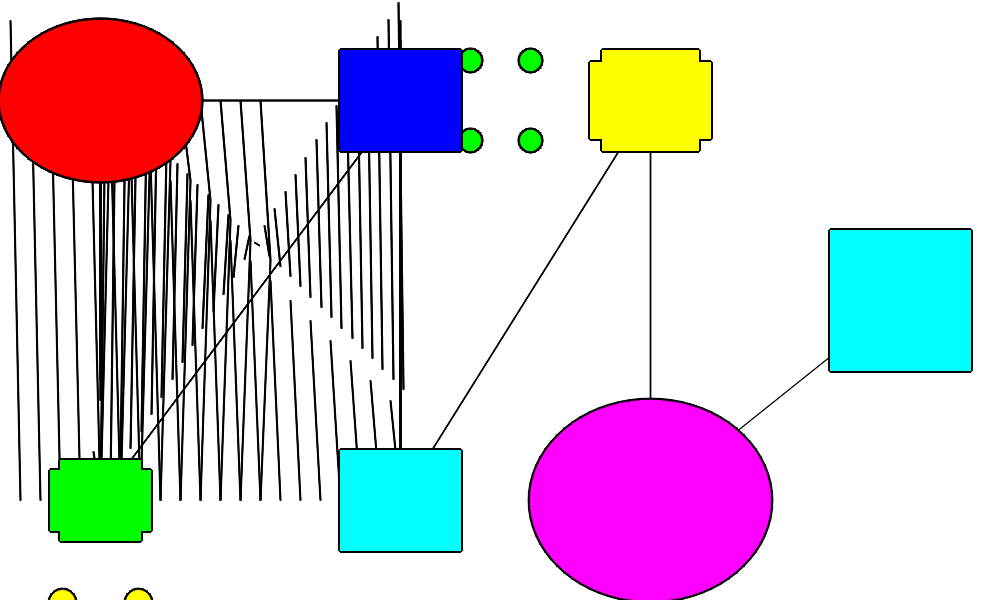
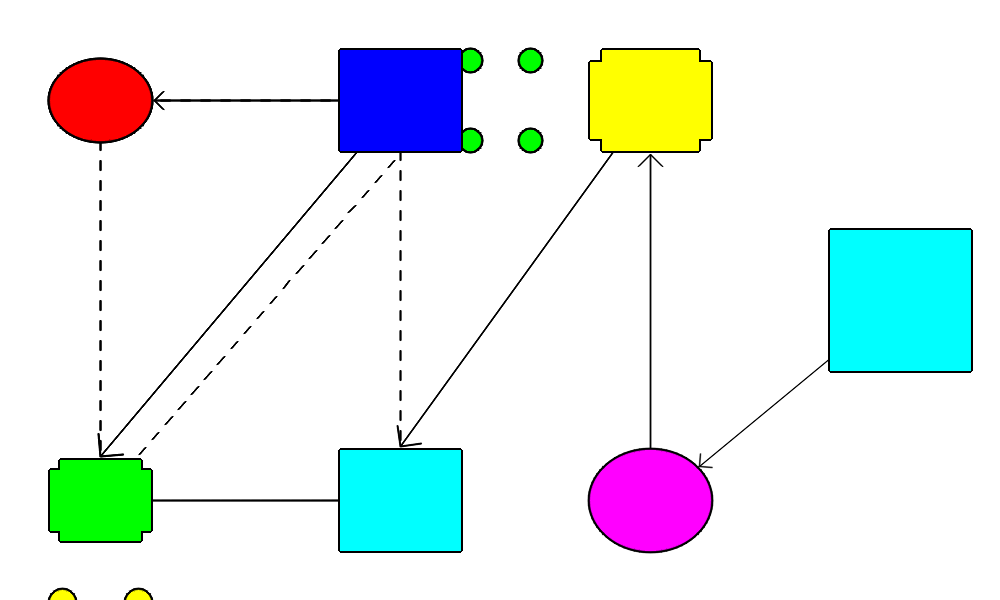
FIX: arrow bugs

diff --git a/2025_03_12_DeepSeek_LLM/draw_diagram/draw_diagram.py b/2025_03_12_DeepSeek_LLM/draw_diagram/draw_diagram.py
@@ -6,6 +6,7 @@ import math
 WIDTH = 1000
 HEIGHT = 600
 DASH_INTERVAL = 20  # interval for dashed arrow
+ARROW_MARGIN = 4
 
 canvas = np.ones((HEIGHT, WIDTH, 3), dtype=np.uint8) * 255
 diagram_dict = {}
@@ -70,7 +71,7 @@ def draw_round_rectangle(x, y, width, height, color, thickness):
 # Last Update Date : 2025.03.17
 # - circle 그릴 때 anti-aliasing 누락 수정 (lineType=cv2.LINE_AA)
 # - rectangle 그릴 때 pt1, pt2 의 좌표를 int 자료형이 되도록 수정
-# - 기타 버그 수정 (도형 그리기 순서 등)
+# - 기타 버그 수정 (도형 그리기 순서, ellipse size 등)
 
 # Arguments:
 # - x      (int)   : 도형의 x 좌표
@@ -107,7 +108,7 @@ def generate_node(x, y, width, height, shape, color):
         elif 'circle' in shape:
             cv2.ellipse(canvas,
                         center=(x, y),
-                        axes=(width, height),
+                        axes=(int(width / 2), int(height / 2)),
                         angle=0,
                         startAngle=0,
                         endAngle=360,
@@ -118,7 +119,8 @@ def generate_node(x, y, width, height, shape, color):
 
 # Diagram 의 화살표 생성 시, 화살표의 끝점의 좌표 계산
 # Create Date : 2025.03.16
-# Last Update Date : -
+# Last Update Date : 2025.03.17
+# - destination point 계산 오류 및 margin 수정
 
 # Arguments:
 # - x0          (int)   : 시작점 도형의 x 좌표
@@ -136,14 +138,17 @@ def generate_node(x, y, width, height, shape, color):
 def compute_dest_point(x0, y0, x1, y1, dest_shape, dest_width, dest_height):
     x_dest, y_dest = None, None
 
+    width_shift = dest_width / 2 + ARROW_MARGIN
+    height_shift = dest_height / 2 + ARROW_MARGIN
+
     # round rectangle or rectangle
     if 'rect' in dest_shape:
         if abs(x0 - x1) >= abs(y0 - y1):
-            x_dest = x1 - dest_width
+            x_dest = x1 - width_shift if x0 < x1 else x1 + width_shift
             y_dest = y1
         else:
             x_dest = x1
-            y_dest = y1 - dest_height
+            y_dest = y1 - height_shift if y0 < y1 else y1 + height_shift
 
     # circle
     elif 'circle' in dest_shape:
@@ -153,16 +158,19 @@ def compute_dest_point(x0, y0, x1, y1, dest_shape, dest_width, dest_height):
 
         elif x0 == x1:
             x_dest = x1
-            y_dest = y1 - dest_height if y0 < y1 else y1 + dest_height
+            y_dest = y1 - height_shift if y0 < y1 else y1 + height_shift
 
         elif y0 == y1:
-            x_dest = x1 - dest_width if x0 < x1 else x1 + dest_width
+            x_dest = x1 - width_shift if x0 < x1 else x1 + width_shift
             y_dest = y1
 
         else:
-            angle = math.atan2(y1 - y0, x1 - x0)
-            x_dest = x1 - math.cos(angle) * dest_width
-            y_dest = y1 - math.sin(angle) * dest_height
+            angle = math.atan((y1 - y0) / (x1 - x0))
+            abs_cos = abs(math.cos(angle))
+            abs_sin = abs(math.sin(angle))
+
+            x_dest = x1 - abs_cos * width_shift if x0 < x1 else x1 + abs_cos * width_shift
+            y_dest = y1 - abs_sin * height_shift if y0 < y1 else y1 + abs_sin * height_shift
 
     return x_dest, y_dest
 
@@ -206,6 +214,7 @@ def compute_dash_width_and_height(x0, y0, x_dest, y_dest):
 # Last Update Date : 2025.03.17
 # - line 그릴 때 pt1, pt2 의 좌표를 int 자료형이 되도록 수정
 # - dashed line 그리는 반복의 종료 조건 판정 버그 수정
+# - 기타 버그 수정
 
 # Arguments:
 # - x0          (int)   : 시작점 도형의 x 좌표
@@ -232,7 +241,7 @@ def generate_dashed_arrow(x0, y0, x_dest, y_dest, arrow_color):
     while True:
         cv2.line(canvas,
                  pt1=(int(x), int(y)),
-                 pt2=(int(x + dash_width), int(x + dash_height)),
+                 pt2=(int(x + dash_width), int(y + dash_height)),
                  color=arrow_color,
                  thickness=1,
                  lineType=cv2.LINE_AA)
@@ -250,7 +259,8 @@ def generate_dashed_arrow(x0, y0, x_dest, y_dest, arrow_color):
 
 # Diagram 의 화살표 생성
 # Create Date : 2025.03.16
-# Last Update Date : -
+# Last Update Date : 2025.03.17
+# - arrow 의 dest point 를 계산된 dest point 로 수정
 
 # Arguments:
 # - x0          (int)   : 시작점 도형의 x 좌표
@@ -275,10 +285,11 @@ def generate_arrow(x0, y0, x1, y1, arrow_shape, arrow_color, dest_shape, dest_wi
     if 'solid' in arrow_shape:
         cv2.arrowedLine(canvas,
                         pt1=(x0, y0),
-                        pt2=(x1, y1),
+                        pt2=(int(x_dest), int(y_dest)),
                         color=arrow_color,
                         thickness=1,
-                        line_type=cv2.LINE_AA)
+                        line_type=cv2.LINE_AA,
+                        tipLength=0.05)
 
     # dotted (dashed) arrow
     elif 'dot' in arrow_shape or 'dash' in arrow_shape:
@@ -405,6 +416,11 @@ def generate_diagram_each_line(line_text):
     # draw arrows first
     for node_no, info in diagram_dict.items():
         for connected_node_no in info['connected_nodes']:
+
+            # source = dest 인 경우 pass
+            if node_no == connected_node_no:
+                continue
+
             if connected_node_no in diagram_dict.keys():
                 dest_node_info = diagram_dict[connected_node_no]
 
